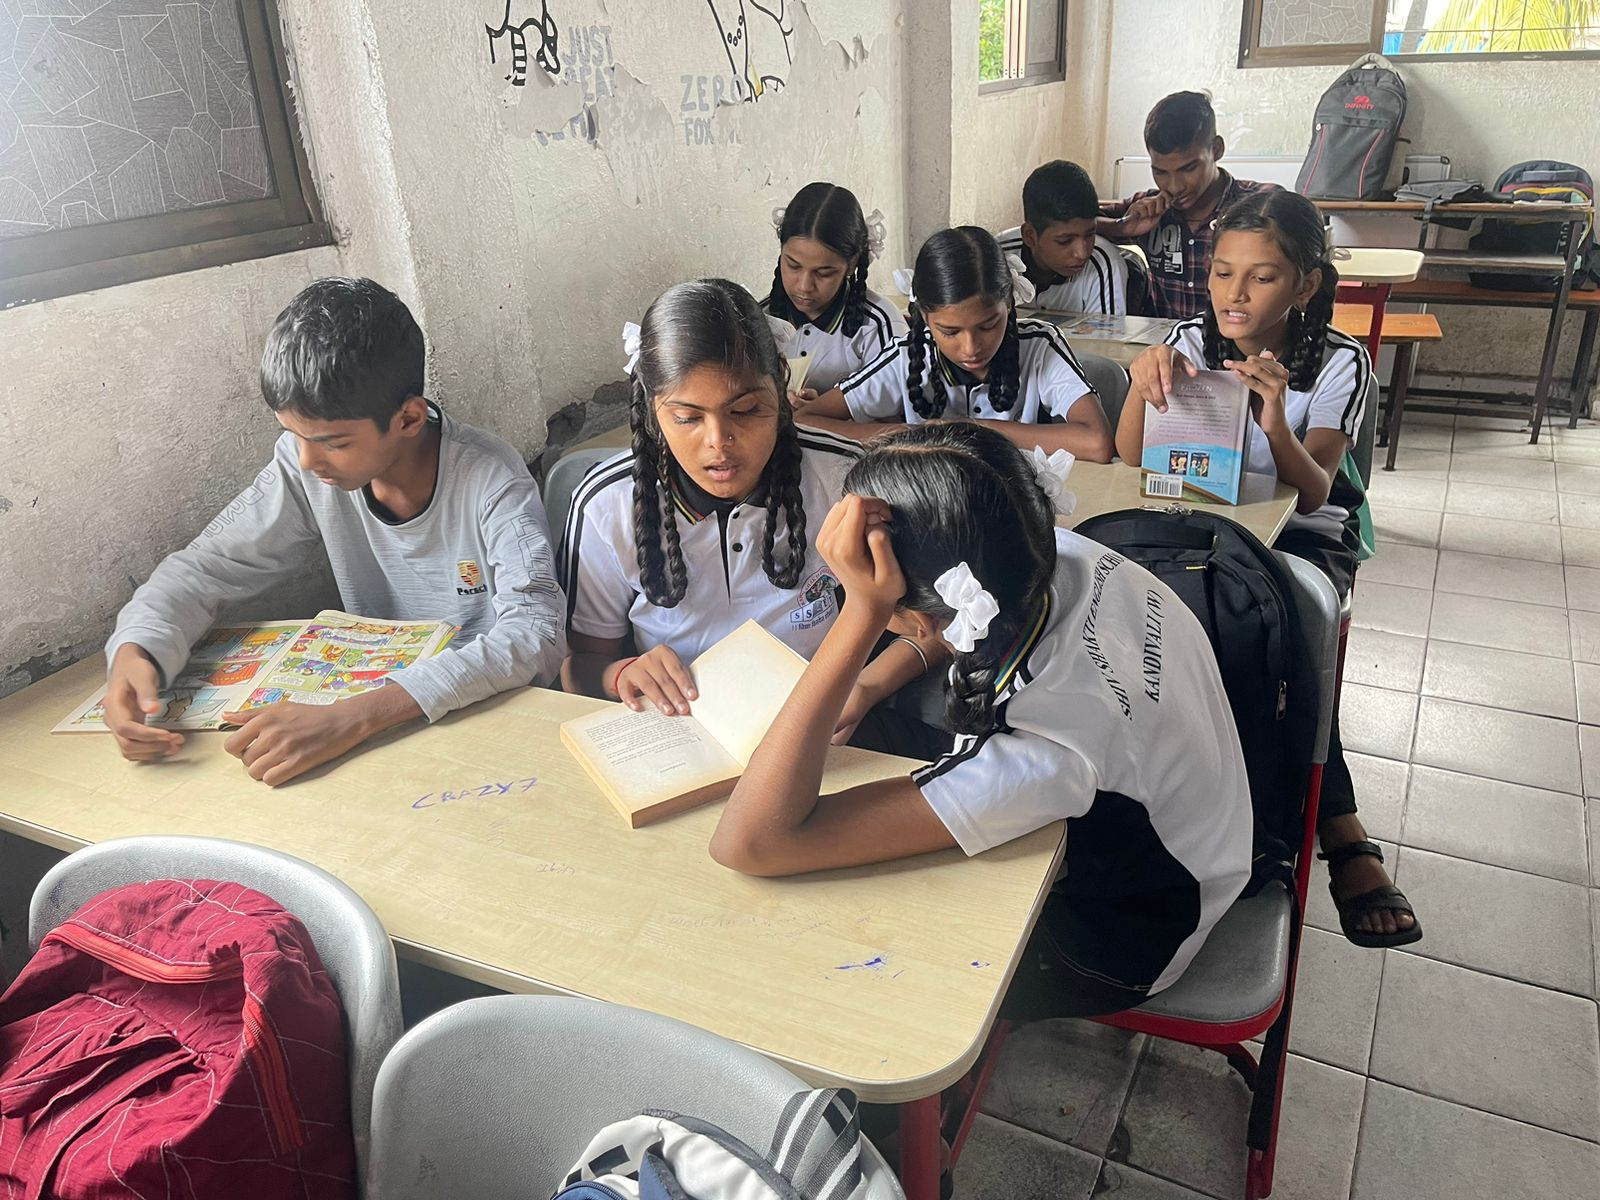
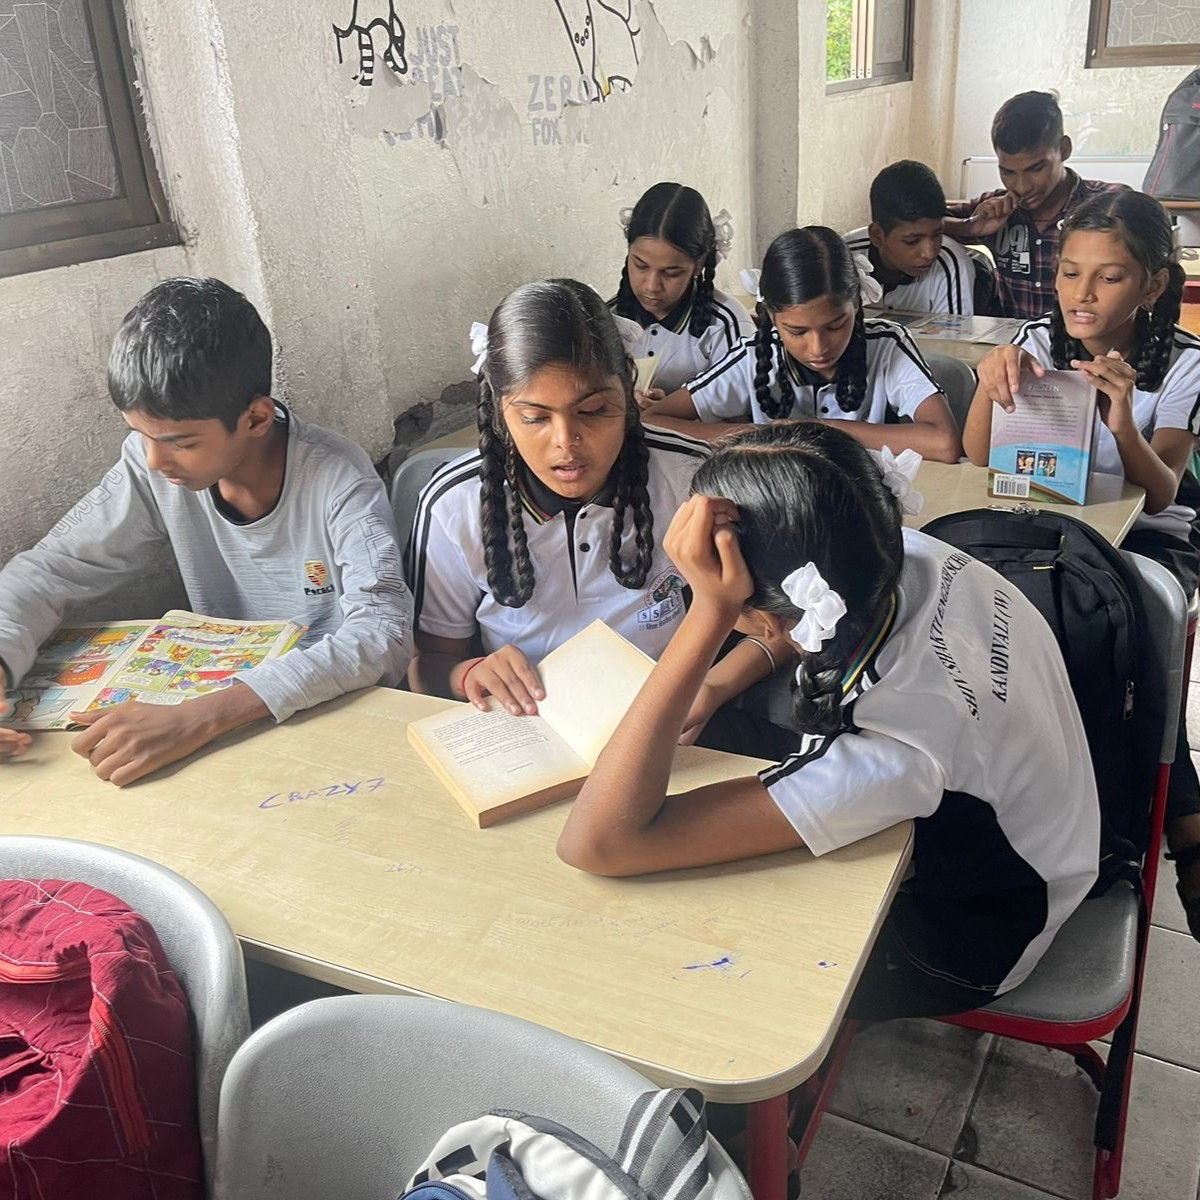
adding more info about the deates and teams and cropping images.

diff --git a/yearone.html b/yearone.html
@@ -117,7 +117,7 @@
                   <div class="col-md-4">
                     <div class="d-flex flex-column align-items-center">
                       <img src="media/year_1/imgs/library_session001.jpg" alt="Library" class="img-fluid rounded mb-2">
-                      <img src="media/year_1/imgs/library_session002.jpg" alt="Library" class="img-fluid rounded">
+                
                     </div>
                     <h3 class="text-center mt-2">Functional School Library</h3>
                     <p>To foster a love for reading, we procured storybooks and bookshelves through donations. With the help of students, we set up a functional school library. After this, we introduced regular DEAR (Drop Everything and Read) blocks to encourage reading habits.</p>
@@ -126,27 +126,6 @@
                 <div class="row mt-4">
                   <div class="col-md-4">
                     <img src="media/year_1/imgs/mind_map.jpg" alt="Mind Map" class="img-fluid rounded mb-2">
-                    <div id="sstImageCarousel" class="carousel slide" data-ride="carousel" data-interval="3000">
-                      <div class="carousel-inner">
-                        <div class="carousel-item active">
-                          <img src="media/year_1/imgs/story_map001.jpg" alt="Story Map 1" class="d-block w-100">
-                        </div>
-                        <div class="carousel-item">
-                          <img src="media/year_1/imgs/story_map002.jpg" alt="Story Map 2" class="d-block w-100">
-                        </div>
-                        <div class="carousel-item">
-                          <img src="media/year_1/imgs/story_map003.jpg" alt="Story Map 3" class="d-block w-100">
-                        </div>
-                      </div>
-                      <a class="carousel-control-prev" href="#sstImageCarousel" role="button" data-slide="prev">
-                        <span class="carousel-control-prev-icon" aria-hidden="true"></span>
-                        <span class="sr-only">Previous</span>
-                      </a>
-                      <a class="carousel-control-next" href="#sstImageCarousel" role="button" data-slide="next">
-                        <span class="carousel-control-next-icon" aria-hidden="true"></span>
-                        <span class="sr-only">Next</span>
-                      </a>
-                    </div>
                     <h3 class="text-center mt-2">Engaging Social Studies</h3>
                     <p>Throughout the year, I experimented with various methods to make Social Studies (SST) more engaging, as many students disliked the subject. One effective approach was teaching through story maps and graphic organizers. I also introduced mind maps, where students used basic WH questions (Who, What, Where, When, Why, How) to simplify lengthy texts into smaller concepts. The mind maps and graphic organizers helped students understand and articulate answers better so that they could recall them in exams.</p>
                   </div>
@@ -154,6 +133,81 @@
                     <img src="media/year_1/imgs/group_study.gif" alt="Group Study" class="img-fluid rounded">
                     <h3 class="text-center mt-2">Promoting Collaboration</h3>
                     <p>To promote collaboration, I created heterogeneous groups with students from different rigor levels. Each student was held accountable for their group's performance. During lessons, I ensured that they engaged in at least one group activity, project, or teamwork task. This helped students interact and bond with each other regardless of gender.</p>
+                  </div>
+                  <div class="col-md-4">
+                    <img src="media/year_1/imgs/Goal_setting_grade_eight.jpg  " alt="Goal Setting" class="img-fluid rounded">
+                    <h3 class="text-center mt-2">Goal Setting</h3>
+                    <p>At the beginning of the semester, we conducted a group goal-setting activity where students reflected on their academic aspirations. They wrote down the goals they hoped to achieve and discussed the specific actions they could take to reach those goals. This exercise helped them develop a clearer sense of purpose and accountability for their academic growth.</p>
+                  </div>
+                  <div class="col-md-12">
+                    <h3 class="text-center mt-2">Debate Sessions</h3>
+                    <p>Debate sessions were organized in class, where students were divided into groups of three and given various topics to discuss. One of the topics, Should school uniforms be compulsory? sparked an engaging discussion. The activity encouraged students to express their opinions openly and confidently.</p>
+                    <h2 class="text-center mt-4">The Teams</h2>
+                    <div class="row mb-4"> <!-- Added mb-4 class for padding below the teams -->
+                      <div class="col-md-3">
+                        <div class="card">
+                          <img src="media\year_1\imgs\team001.jpg" alt="Team 1" class="card-img-top">
+                          <div class="card-img-overlay d-flex flex-column justify-content-end">
+                            <h5 class="card-title text-white">Gang of Genius</h5>
+                            <p class="card-text text-white">Jyoti.G, Jyoti.C, Archana</p>
+                          </div>
+                        </div>
+                      </div>
+                      <div class="col-md-3">
+                        <div class="card">
+                          <img src="media\year_1\imgs\team002.jpg" alt="Team 2" class="card-img-top">
+                          <div class="card-img-overlay d-flex flex-column justify-content-end">
+                            <h5 class="card-title text-white">Clever Cats</h5>
+                            <p class="card-text text-white">Manisha, Anchal, Rabiya</p>
+                          </div>
+                        </div>
+                      </div>
+                      <div class="col-md-3">
+                        <div class="card">
+                          <img src="media\year_1\imgs\team003.jpg" alt="Team 3" class="card-img-top">
+                          <div class="card-img-overlay d-flex flex-column justify-content-end">
+                            <h5 class="card-title text-white">Team Legends</h5>
+                            <p class="card-text text-white">Amit, Tufail, Asim</p>
+                          </div>
+                        </div>
+                      </div>
+                      <div class="col-md-3">
+                        <div class="card">
+                          <img src="media\year_1\imgs\team004.jpg" alt="Team 4" class="card-img-top">
+                          <div class="card-img-overlay d-flex flex-column justify-content-end">
+                            <h5 class="card-title text-white">Smarty Boys</h5>
+                            <p class="card-text text-white">Deepak, Volunteer</p>
+                          </div>
+                        </div>
+                      </div>
+                    </div>
+                    <p>Here are some of the students making amazing arguments on the topic.</p>
+                    <div class="row">
+                      <div class="col-md-4">
+                        <a href="video_link_1.html">
+                          <img src="media/year_1/imgs/debate_thumbnail_1.jpg" alt="Debate Thumbnail 1" class="img-fluid rounded">
+                        </a>
+                        <h6 class="text-center mt-2">"The Struggle for Comfort: Why Girls' School Uniforms Should Be Reconsidered".</h6>
+                          <h6 class="text-center mt-2"> -Jyoti Chauhan</h6>
+                        <p>Jyoti Chauhan opposed making school uniforms compulsory. She pointed out that students face corporal punishment for not wearing uniforms, causing stress. The high cost means families can only afford two pairs, leading to hygiene issues. Her strongest argument was the discomfort girls face with frock-style uniforms, especially during menstruation, which makes simple tasks like sitting or climbing stairs difficult and uncomfortable. <a href="video_link_1.html">Watch the video</a></p>
+                      </div>
+                      <div class="col-md-4">
+                        <a href="video_link_2.html">
+                          <img src="media/year_1/imgs/debate_thumbnail_2.jpg" alt="Debate Thumbnail 2" class="img-fluid rounded">
+                        </a>
+                        <h6 class="text-center mt-2">Debate Topic 2</h6>
+                        <h6 class="text-center mt-2"> - Tufail</h6>
+                        <p>During the debate, some students also shared challenges they faced in school, such as high fees, corporal punishment for late fee payments, and lack of proper infrastructure. The activity encouraged students to express their opinions openly and confidently. <a href="video_link_2.html">Watch the video</a></p>
+                      </div>
+                      <div class="col-md-4">
+                        <a href="video_link_3.html">
+                          <img src="media/year_1/imgs/debate_thumbnail_3.jpg" alt="Debate Thumbnail 3" class="img-fluid rounded">
+                        </a>
+                        <h6 class="text-center mt-2">Debate Topic 3</h6>
+                        <h6 class="text-center mt-2"> -Deepak</h6>
+                        <p>Another topic discussed was the impact of technology on education. Students debated the pros and cons of using digital devices in the classroom, sharing their experiences and perspectives. The activity helped them develop critical thinking and public speaking skills. <a href="video_link_3.html">Watch the video</a></p>
+                      </div>
+                    </div>
                   </div>
                 </div>
               </div>

diff --git a/styles/yearone.css b/styles/yearone.css
@@ -163,4 +163,30 @@
   height: 500px; /* Adjust the height of the graph container */
 }
 
+.card {
+  position: relative;
+  overflow: hidden;
+  border: none;
+  border-radius: 10px;
+}
+
+.card-img-overlay {
+  background: rgba(0, 0, 0, 0.219);
+  padding: 10px;
+  border-radius: 0 0 10px 10px;
+}
+
+.card-title, .card-text {
+  margin: 0;
+}
+
+.card-title {
+  font-size: 1.25rem;
+  font-weight: bold;
+}
+
+.card-text {
+  font-size: 1rem;
+}
+
 
